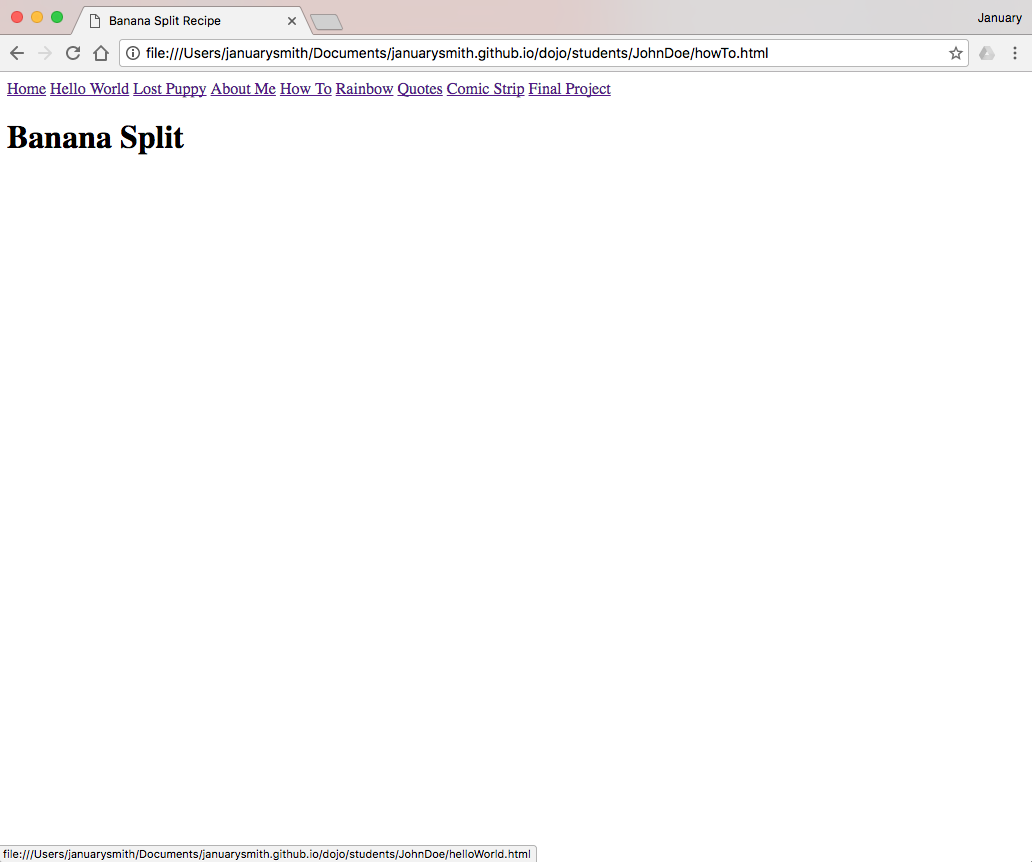
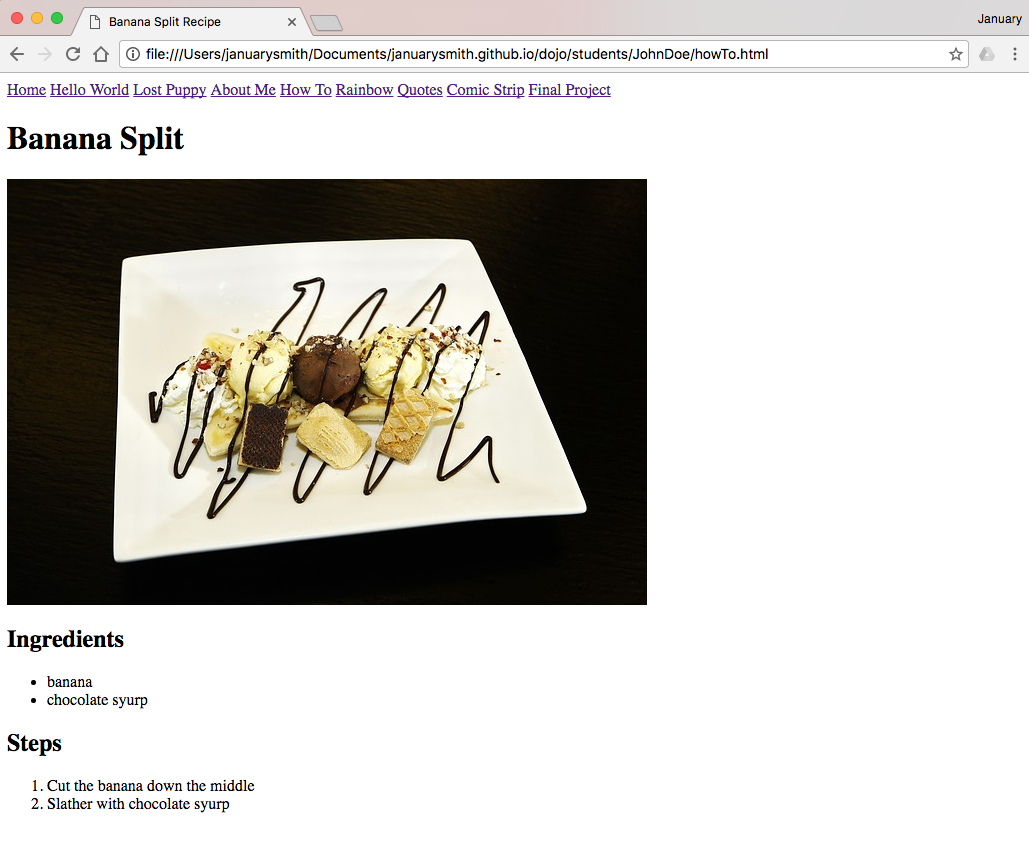
Update Student Samples

diff --git a/dojo/students/JohnDoe/finalProject.html b/dojo/students/JohnDoe/finalProject.html
@@ -15,7 +15,8 @@
 	<a href="finalProject.html">Final Project</a>
 
 	<div style="background-color:white; width:860px; height:600px; border-radius: 15px; margin: auto; margin-top:100px;">
-	<h1 style="font-family: 'Josefin Slab', serif;text-align: center;">My Projects Website</h1>
+	<br>
+	<h1 style="font-family: 'Josefin Slab', serif;text-align: center;">My HTML Projects Website</h1>
 		<div>
 			<a href="">
 				<img src="helloWorldSS.png" style=" width:200px; height: 200px; border: 1px solid black; margin: 5px;">

diff --git a/dojo/students/JohnDoe/howTo.html b/dojo/students/JohnDoe/howTo.html
@@ -12,6 +12,18 @@
 	<a href="quotes.html">Quotes</a>
 	<a href="comicStrip.html">Comic Strip</a>
 	<a href="finalProject.html">Final Project</a>
+
 	<h1>Banana Split</h1>
+	<img src="bananaSplit.jpg">
+	<h2>Ingredients</h2>
+	<ul>
+	<li>banana</li>
+	<li>chocolate syurp</li>
+	</ul>
+	<h2>Steps</h2>
+	<ol>
+	<li>Cut the banana down the middle</li>
+	<li>Slather with chocolate syurp</li>
+	</ol>
 </body>
 </html>
